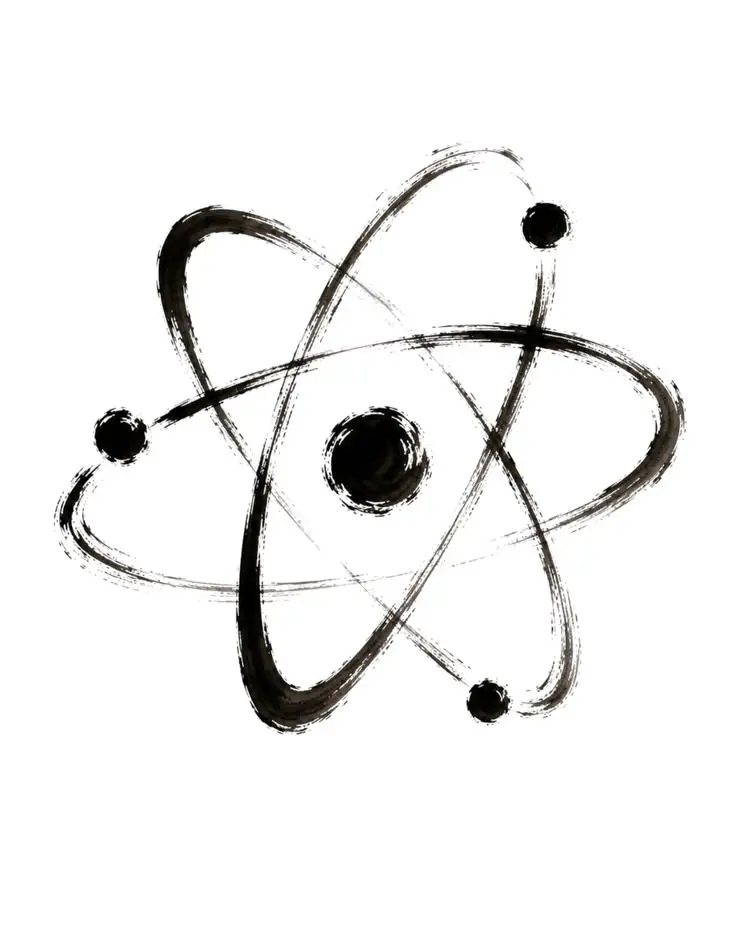
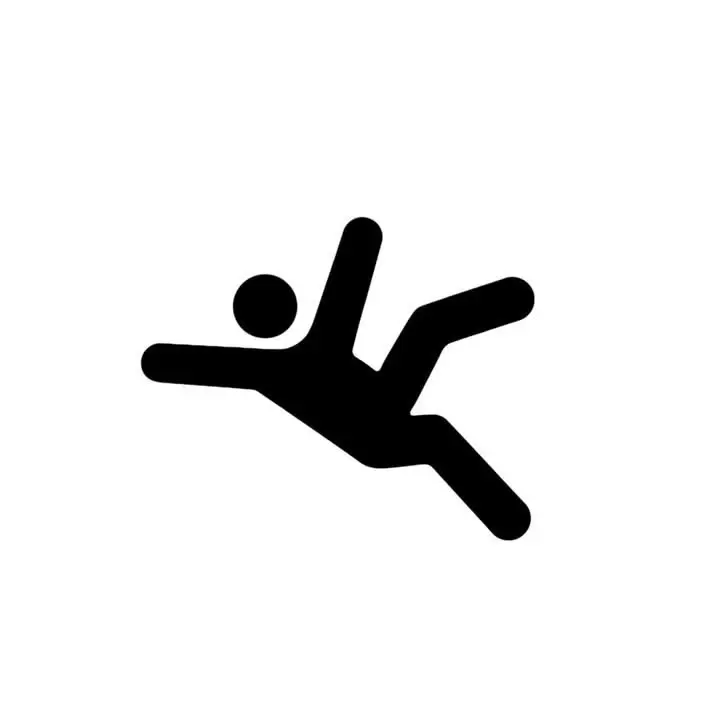
upd

Changed region(s): [[0.0611, 0.1528, 0.9472, 0.7944]]

diff --git a/src/app/components/BackToTop.tsx b/src/app/components/BackToTop.tsx
@@ -1,0 +1,91 @@
+"use client";
+
+import { useEffect, useState } from "react";
+import { ArrowUp } from "lucide-react";
+
+export default function BackToTop({
+  containerRef,
+}: {
+  containerRef?: React.RefObject<HTMLElement | null>;
+}) {
+  const [show, setShow] = useState(false);
+
+  useEffect(() => {
+    const handleScroll = () => {
+      // Mobile view check (screen width < 768px)
+      if (window.innerWidth >= 768) {
+        setShow(false);
+        return;
+      }
+
+      let isNearBottom = false;
+
+      // Window scroll check
+      const winScrollTop = window.scrollY || document.documentElement.scrollTop;
+      const winScrollHeight = document.documentElement.scrollHeight;
+      const winClientHeight = window.innerHeight;
+
+      if (
+        winScrollTop > 150 &&
+        winScrollTop + winClientHeight >= winScrollHeight - 280
+      ) {
+        isNearBottom = true;
+      }
+
+      // Scroll container check
+      if (containerRef?.current) {
+        const el = containerRef.current;
+        const cScrollTop = el.scrollTop;
+        const cScrollHeight = el.scrollHeight;
+        const cClientHeight = el.clientHeight;
+
+        if (
+          cScrollTop > 150 &&
+          cScrollTop + cClientHeight >= cScrollHeight - 280
+        ) {
+          isNearBottom = true;
+        }
+      }
+
+      setShow(isNearBottom);
+    };
+
+    window.addEventListener("scroll", handleScroll, { passive: true });
+    window.addEventListener("resize", handleScroll, { passive: true });
+
+    const containerEl = containerRef?.current;
+    if (containerEl) {
+      containerEl.addEventListener("scroll", handleScroll, { passive: true });
+    }
+
+    handleScroll();
+
+    return () => {
+      window.removeEventListener("scroll", handleScroll);
+      window.removeEventListener("resize", handleScroll);
+      if (containerEl) {
+        containerEl.removeEventListener("scroll", handleScroll);
+      }
+    };
+  }, [containerRef]);
+
+  const scrollToTop = () => {
+    window.scrollTo({ top: 0, behavior: "smooth" });
+    if (containerRef?.current) {
+      containerRef.current.scrollTo({ top: 0, behavior: "smooth" });
+    }
+  };
+
+  if (!show) return null;
+
+  return (
+    <button
+      onClick={scrollToTop}
+      aria-label="Back to top"
+      className="fixed bottom-5 right-5 z-50 flex items-center gap-1.5 px-3 py-2 font-mono text-xs font-bold text-gray-900 dark:text-white bg-white/95 dark:bg-black/90 border border-black/20 dark:border-white/20 shadow-2xl backdrop-blur-md rounded-none transition-all duration-200 active:scale-95 animate-fadeIn md:hidden"
+    >
+      <ArrowUp className="w-3.5 h-3.5 text-emerald-500" />
+      <span>TOP</span>
+    </button>
+  );
+}

diff --git a/src/app/components/DarkModeToggle.tsx b/src/app/components/DarkModeToggle.tsx
@@ -13,9 +13,7 @@ export default function DarkModeToggle() {
   }, []);
 
   if (!mounted) {
-    return (
-      <div className="w-9 h-9 rounded-full bg-black/5 dark:bg-white/10" />
-    );
+    return <div className="w-10 h-4" />;
   }
 
   const isDark = resolvedTheme === "dark";
@@ -24,12 +22,18 @@ export default function DarkModeToggle() {
     <button
       onClick={() => setTheme(isDark ? "light" : "dark")}
       aria-label="Toggle theme"
-      className="relative p-2 rounded-full bg-black/5 dark:bg-white/10 hover:bg-black/10 dark:hover:bg-white/20 border border-black/10 dark:border-white/15 text-gray-700 dark:text-gray-200 transition-all duration-300 shadow-sm backdrop-blur-md active:scale-95 group"
+      className="inline-flex items-center gap-1.5 text-xs font-mono text-gray-600 dark:text-gray-300 hover:text-gray-900 dark:hover:text-white transition-colors active:scale-95 group focus:outline-none"
     >
       {isDark ? (
-        <Sun className="w-4 h-4 text-amber-400 group-hover:rotate-45 transition-transform duration-300" />
+        <>
+          <Sun className="w-3.5 h-3.5 text-gray-300 group-hover:rotate-45 transition-transform duration-300" />
+          <span>dark</span>
+        </>
       ) : (
-        <Moon className="w-4 h-4 text-indigo-600 group-hover:-rotate-12 transition-transform duration-300" />
+        <>
+          <Moon className="w-3.5 h-3.5 text-gray-700 group-hover:-rotate-12 transition-transform duration-300" />
+          <span>light</span>
+        </>
       )}
     </button>
   );

diff --git a/src/app/simulation/page.tsx b/src/app/simulation/page.tsx
@@ -16,6 +16,7 @@ const NeuralNetwork = dynamic(() => import('../components/Neuralnetwork'), { ssr
 import CoolBackground from '../components/CoolBackground';
 import DarkModeToggle from '../components/DarkModeToggle';
 import PageTransition from '../components/PageTransition';
+import BackToTop from '../components/BackToTop';
 import { ArrowLeft, Terminal } from 'lucide-react';
 
 type Sim = {
@@ -223,6 +224,7 @@ export default function SimulationPage() {
 
         </div>
       </PageTransition>
+      <BackToTop />
     </main>
   );
 }

diff --git a/src/app/page.tsx b/src/app/page.tsx
@@ -18,6 +18,7 @@ import { Cpu, Brain, Terminal, ArrowUpRight, ChevronDown } from "lucide-react";
 import { FaPython, FaReact } from "react-icons/fa";
 import { useEffect, useState, useRef } from "react";
 import FloatingButton from "./components/FloatingButton";
+import BackToTop from "./components/BackToTop";
 
 interface Tooltip {
   visible: boolean;
@@ -511,6 +512,7 @@ export default function HomePage() {
           </div>
         </div>
       </section>
+      <BackToTop containerRef={scrollContainerRef} />
     </main>
   );
 }
